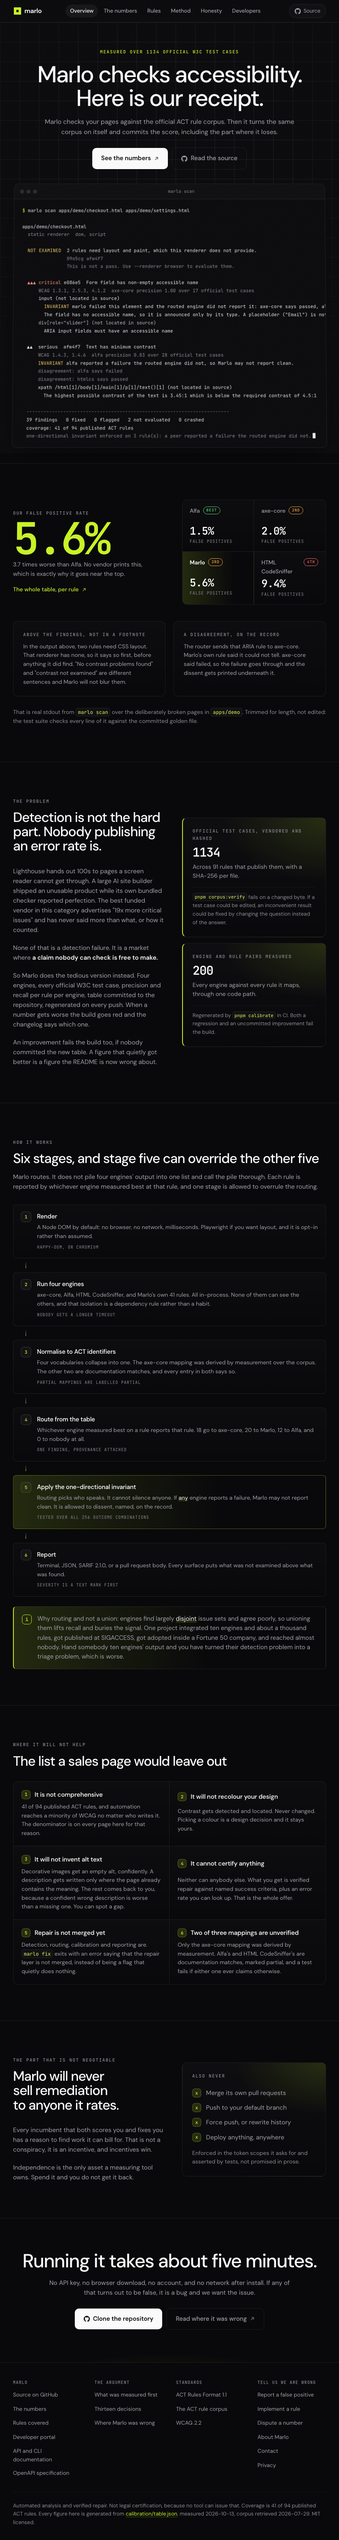
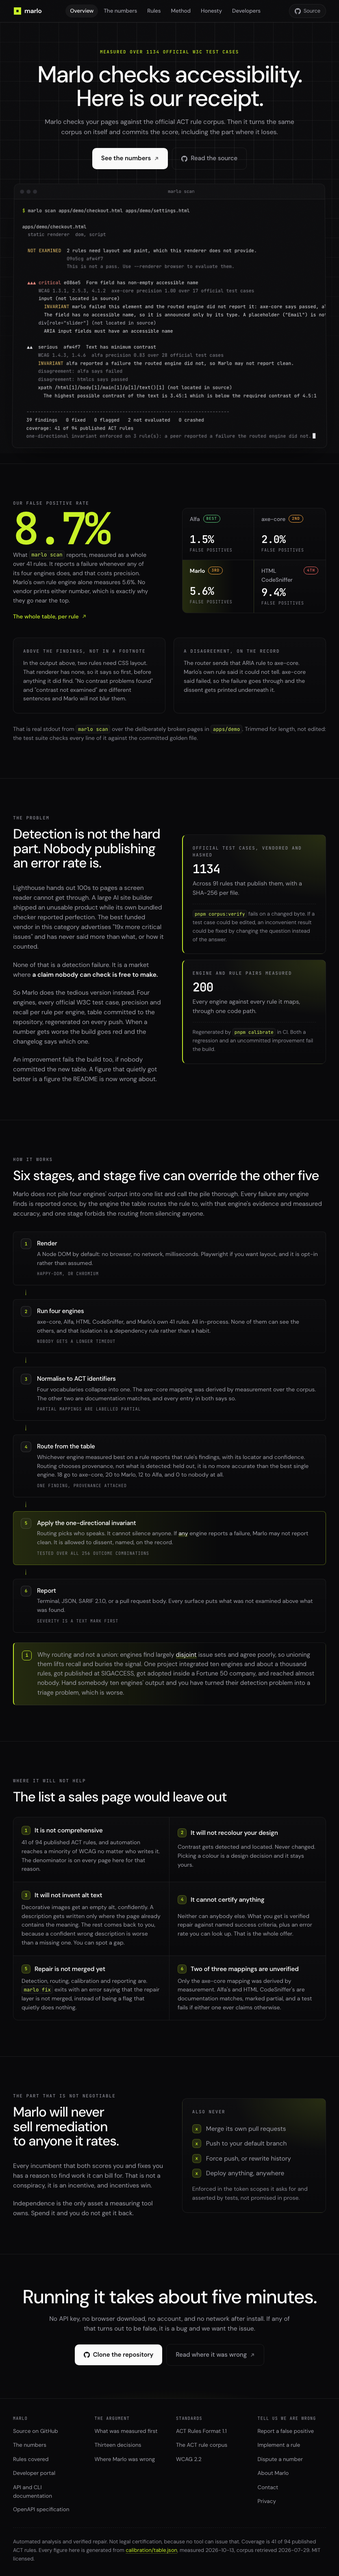
docs: say which cases the routing stability figure counts
It counts every routed rule, 709 cases, while the table beside it covers the
568 cases of the rules marlo scan evaluates. The README and the accuracy
page now say so, and the tracked screenshots are regenerated from an audit
that passes at all three widths.

diff --git a/README.md b/README.md
@@ -48,7 +48,7 @@ The table grades each engine on each rule. The router picks an engine per rule f
 
 Three things this says, and none of them flatters the design.
 
-**The routed engine's perfect precision was an artifact.** Held out, it falls to 0.933, and holding a single case out changes the router's choice on 16 of 709 cases. Routed this way, it scores below running Alfa everywhere on both precision and recall, though the intervals overlap.
+**The routed engine's perfect precision was an artifact.** Held out, it falls to 0.933, and holding a single case out changes the router's choice on 16 of 709 cases across every routed rule. Routed this way, it scores below running Alfa everywhere on both precision and recall, though the intervals overlap.
 
 **The product detects the union.** Because no engine may be silenced, a rule fails whenever any engine fails it, which gives the highest recall here and the highest false positive rate apart from HTML CodeSniffer alone. That trade is deliberate: a violation one engine can see is a violation, and the cost of reporting it is printed above rather than hidden.
 
